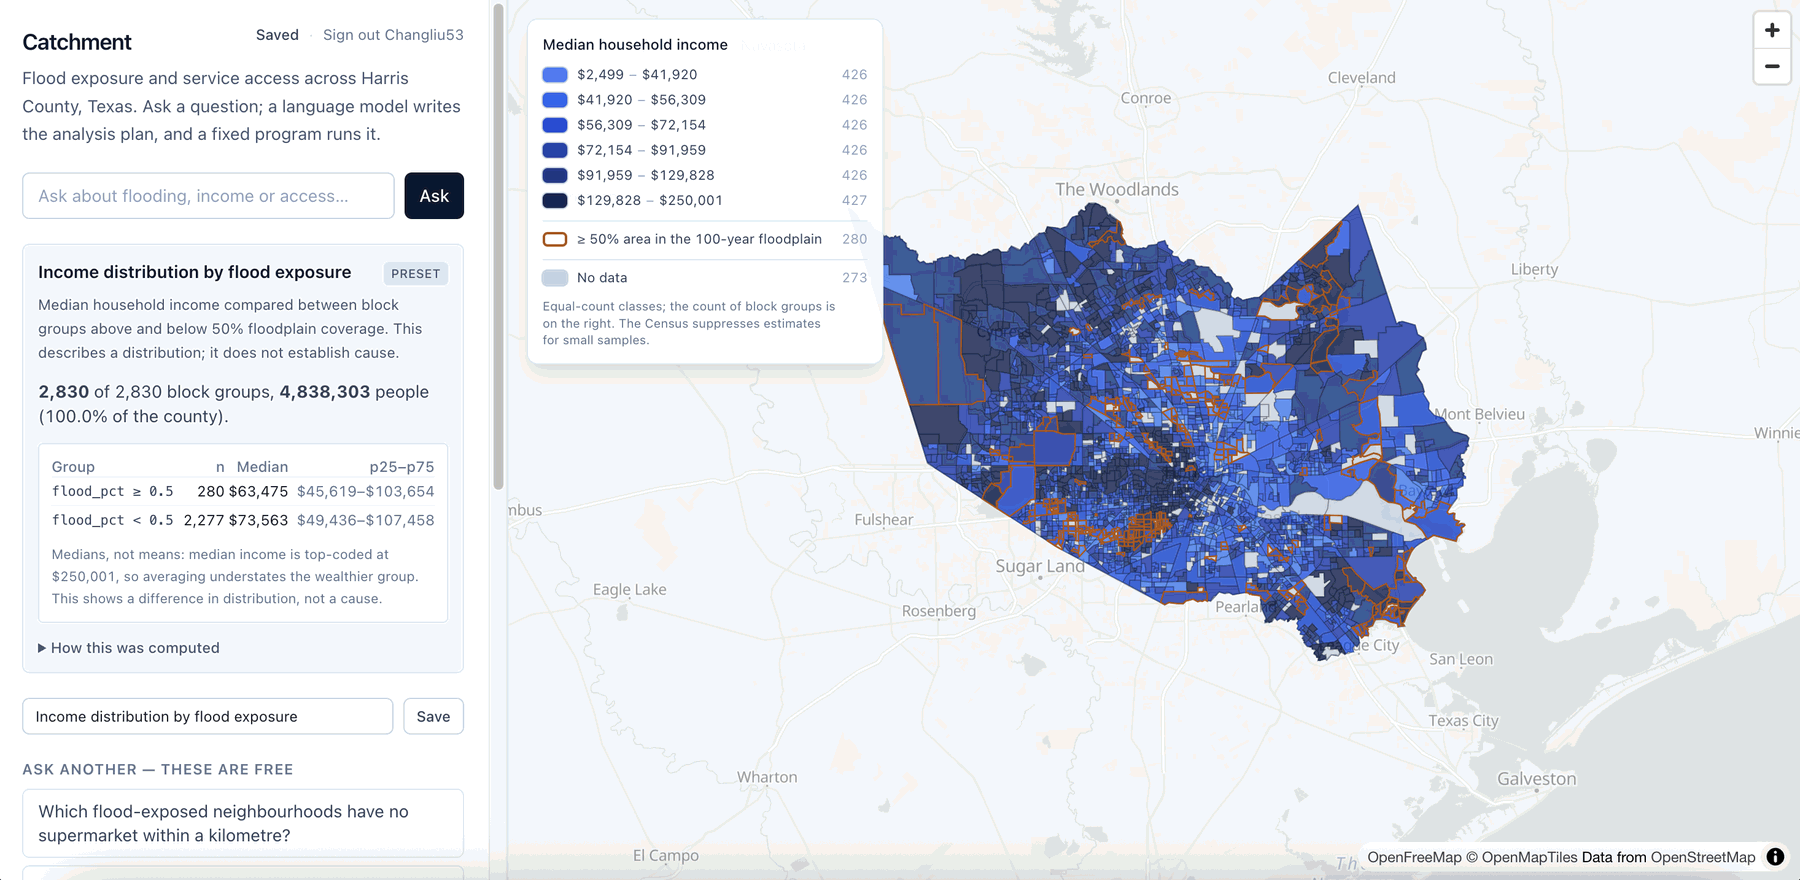
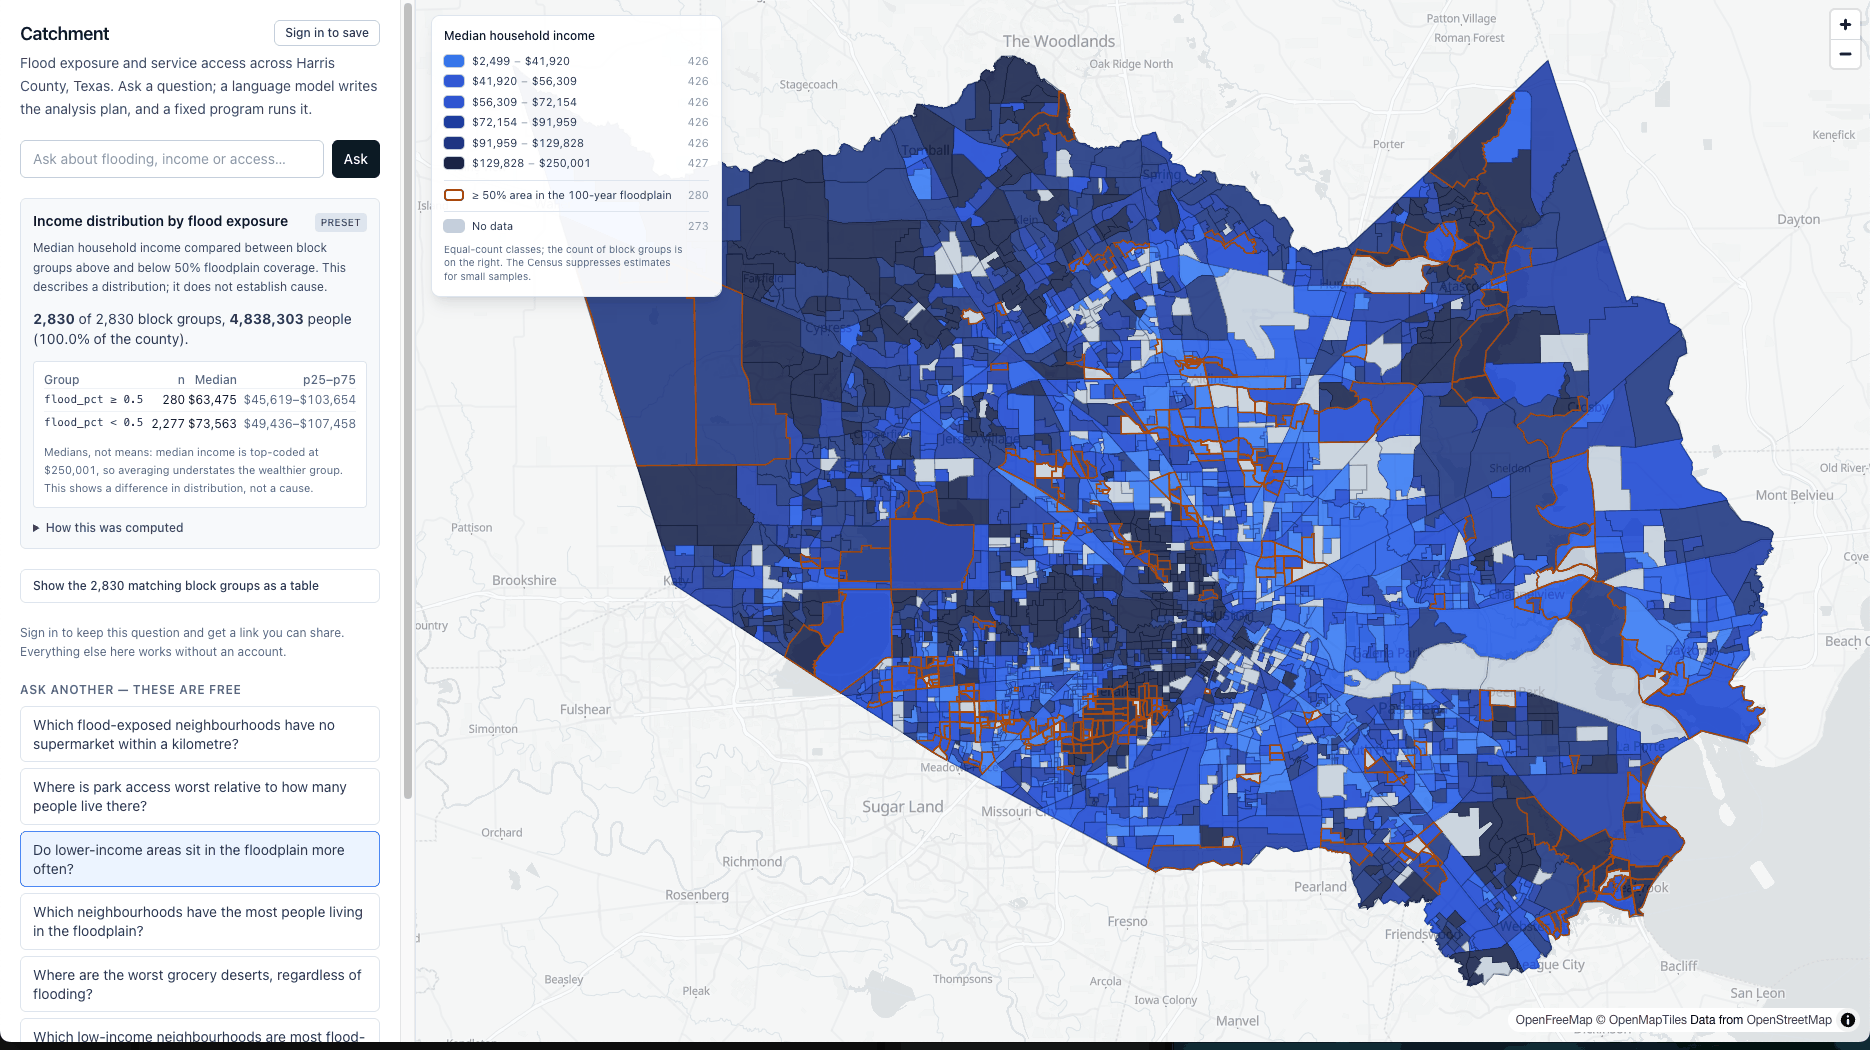
docs: a hero image that matches what the site does
The screenshots were committed sixteen hours before the results table
shipped, so the first thing anyone saw was an app without it — while the
README's own summary leads with "every number the map holds is also a
server-rendered table". A reader sharp enough to be worth impressing is
the one who notices that.

Retaken on the same preset. "Show the 2,830 matching block groups as a
table" now sits where it actually sits, between the audit trail and the
save box.

Two things about the framing, since both were decided rather than
inherited from the crop tool:

The full content height is kept rather than the old 2:1 letterbox. The
shorter crop chopped the southern third of the county — the part that
floods — and cut off the OpenFreeMap and OpenStreetMap attribution along
the bottom, which is a licence condition on ODbL data and not decoration.

And it is signed out. The old one had a session in it, so the header read
"Saved · Sign out Changliu53", which is neither what a first-time visitor
sees nor a username that belongs in a hero image.

Palette-quantised to 256 colours like the others: 464 KB rather than
1.2 MB, and the choropleth is six flat blues plus basemap pastels, so
there is nothing for the quantiser to ruin.

Claude-Session: https://claude.ai/code/session_01Ayw5cveSdf7vB7xZgXZJno

diff --git a/README.md b/README.md
@@ -8,7 +8,7 @@ data, and drawn as a map.
 
 > Which flood-exposed neighbourhoods have no supermarket within a kilometre?
 
-![Income compared between block groups above and below 50% floodplain coverage: the statistics and the audit trail on the left, and a two-channel map on the right where colour is income and the orange outline is the floodplain group](docs/hero.png)
+![Income compared between block groups above and below 50% floodplain coverage: on the left the statistics, the audit trail, and the matching block groups as a table; on the right a two-channel map where colour is income and the orange outline is the floodplain group](docs/hero.png)
 
 Google Maps can tell you where a supermarket is. It cannot express _"more than
 half of this area sits in the 100-year floodplain **and** its centre is over a
